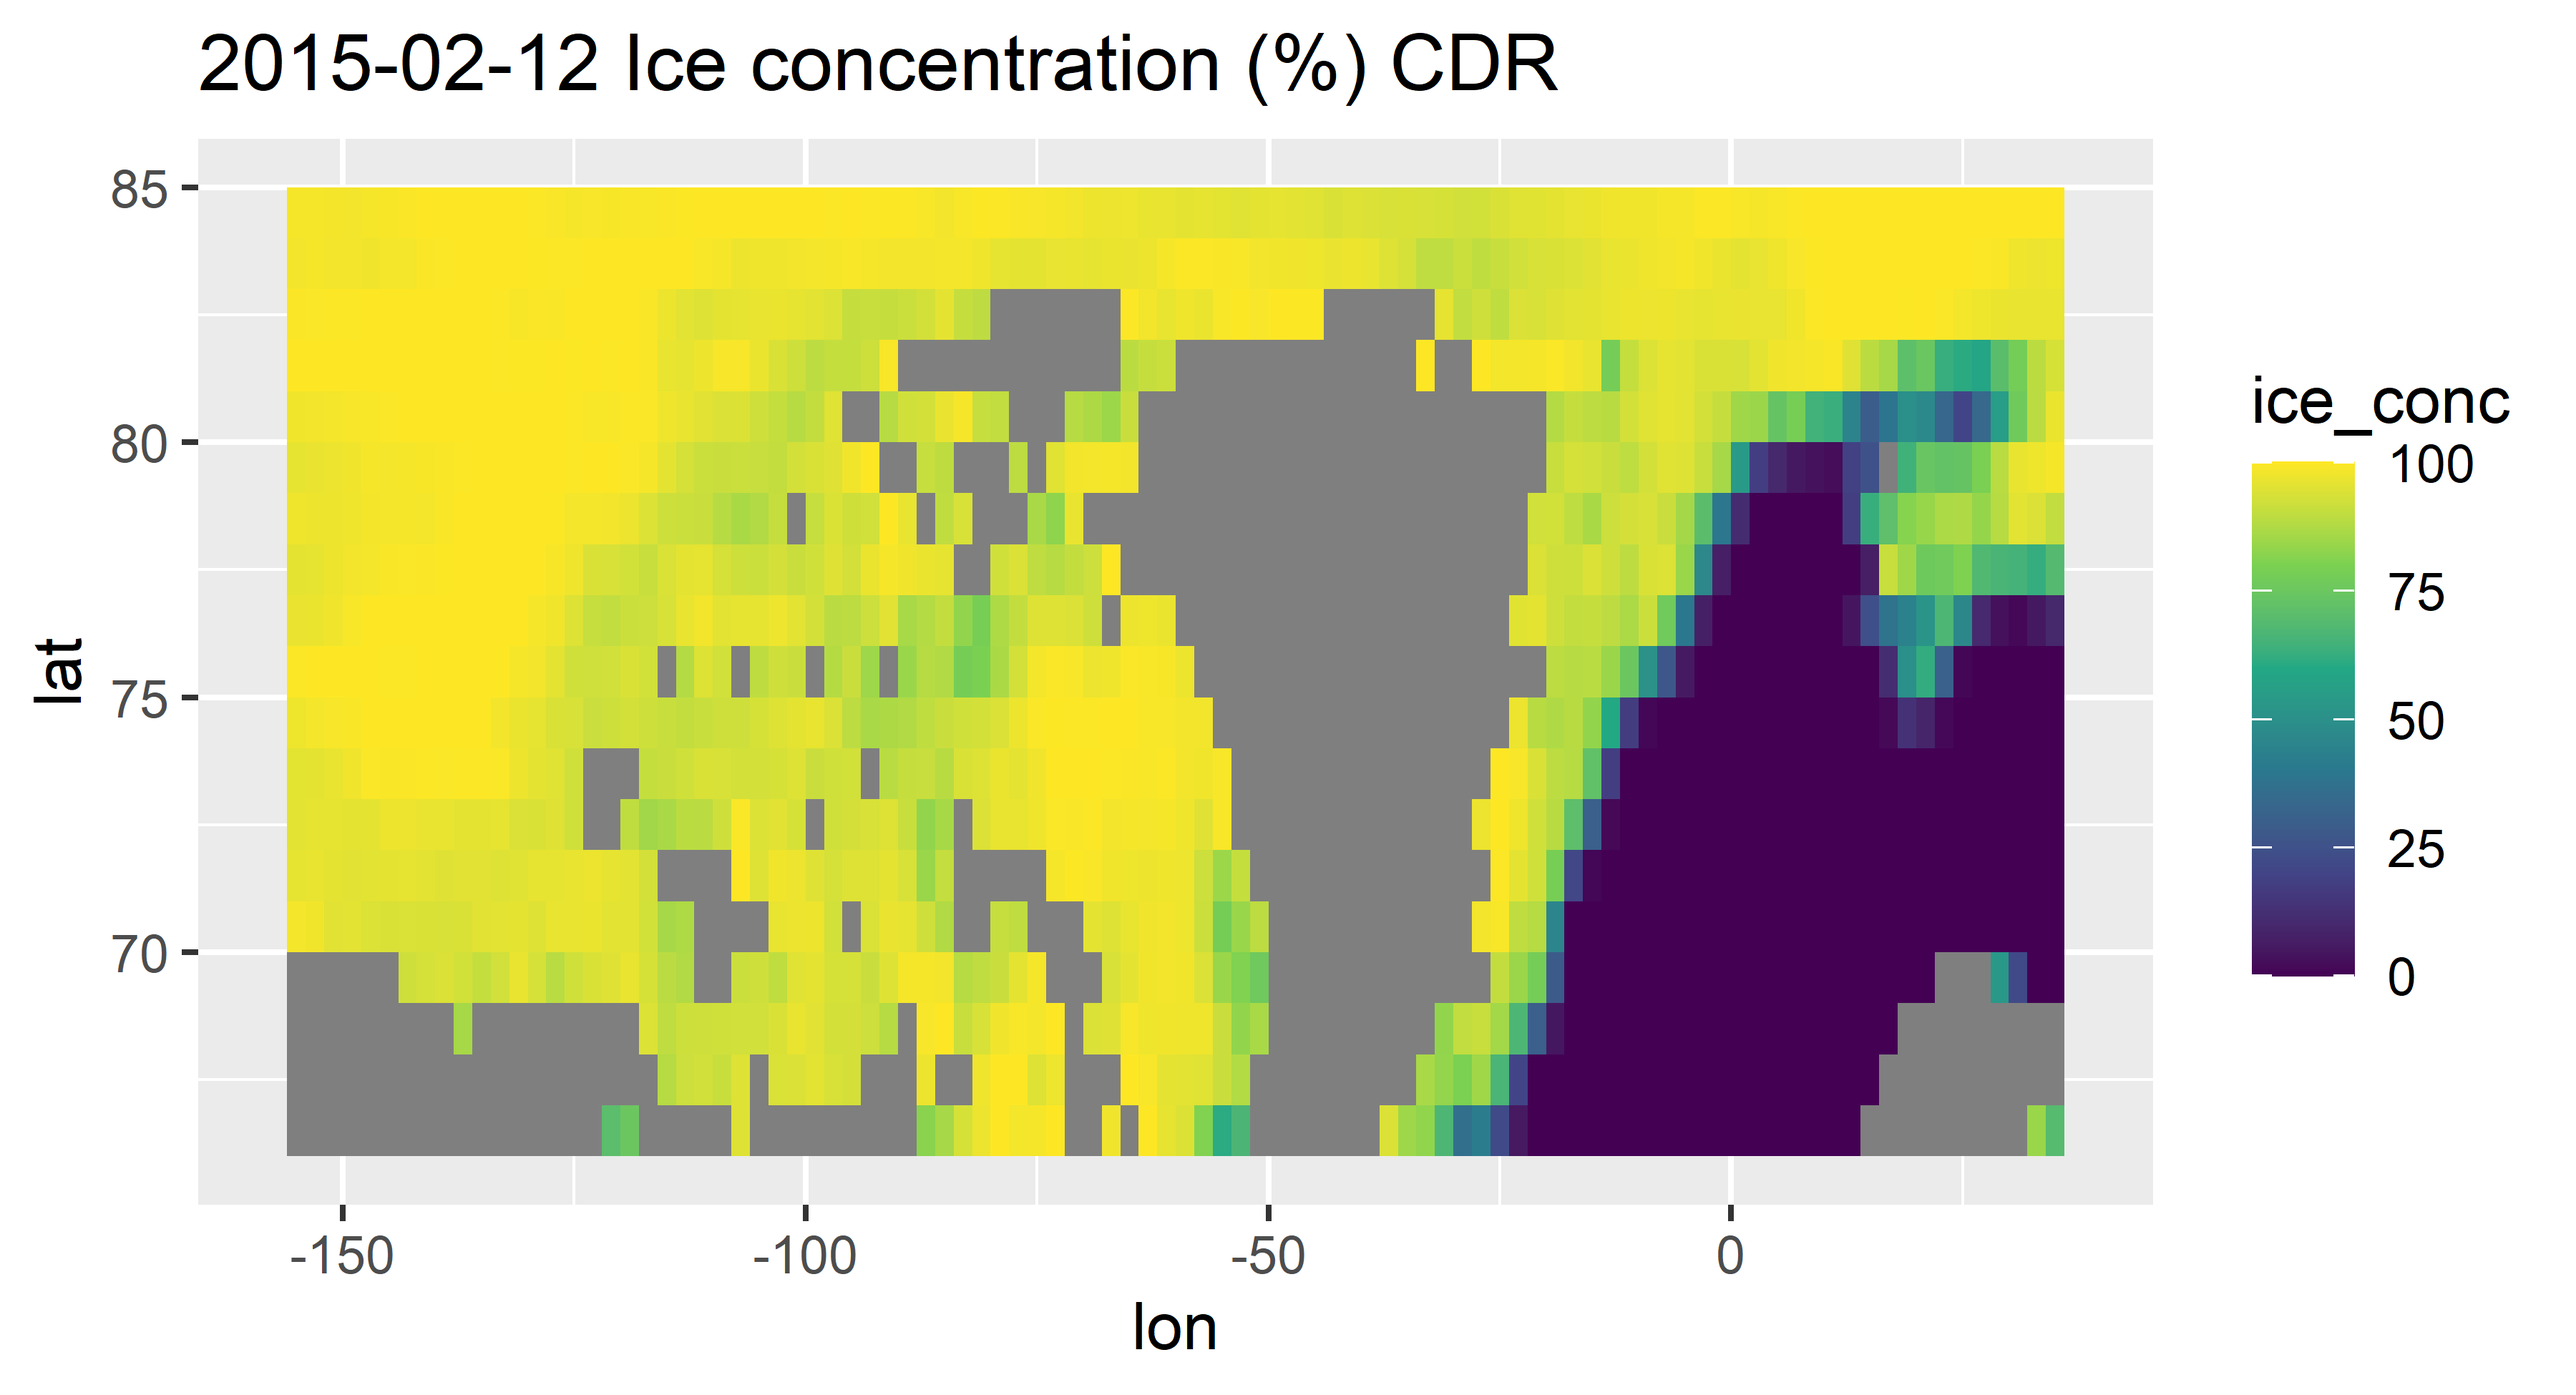
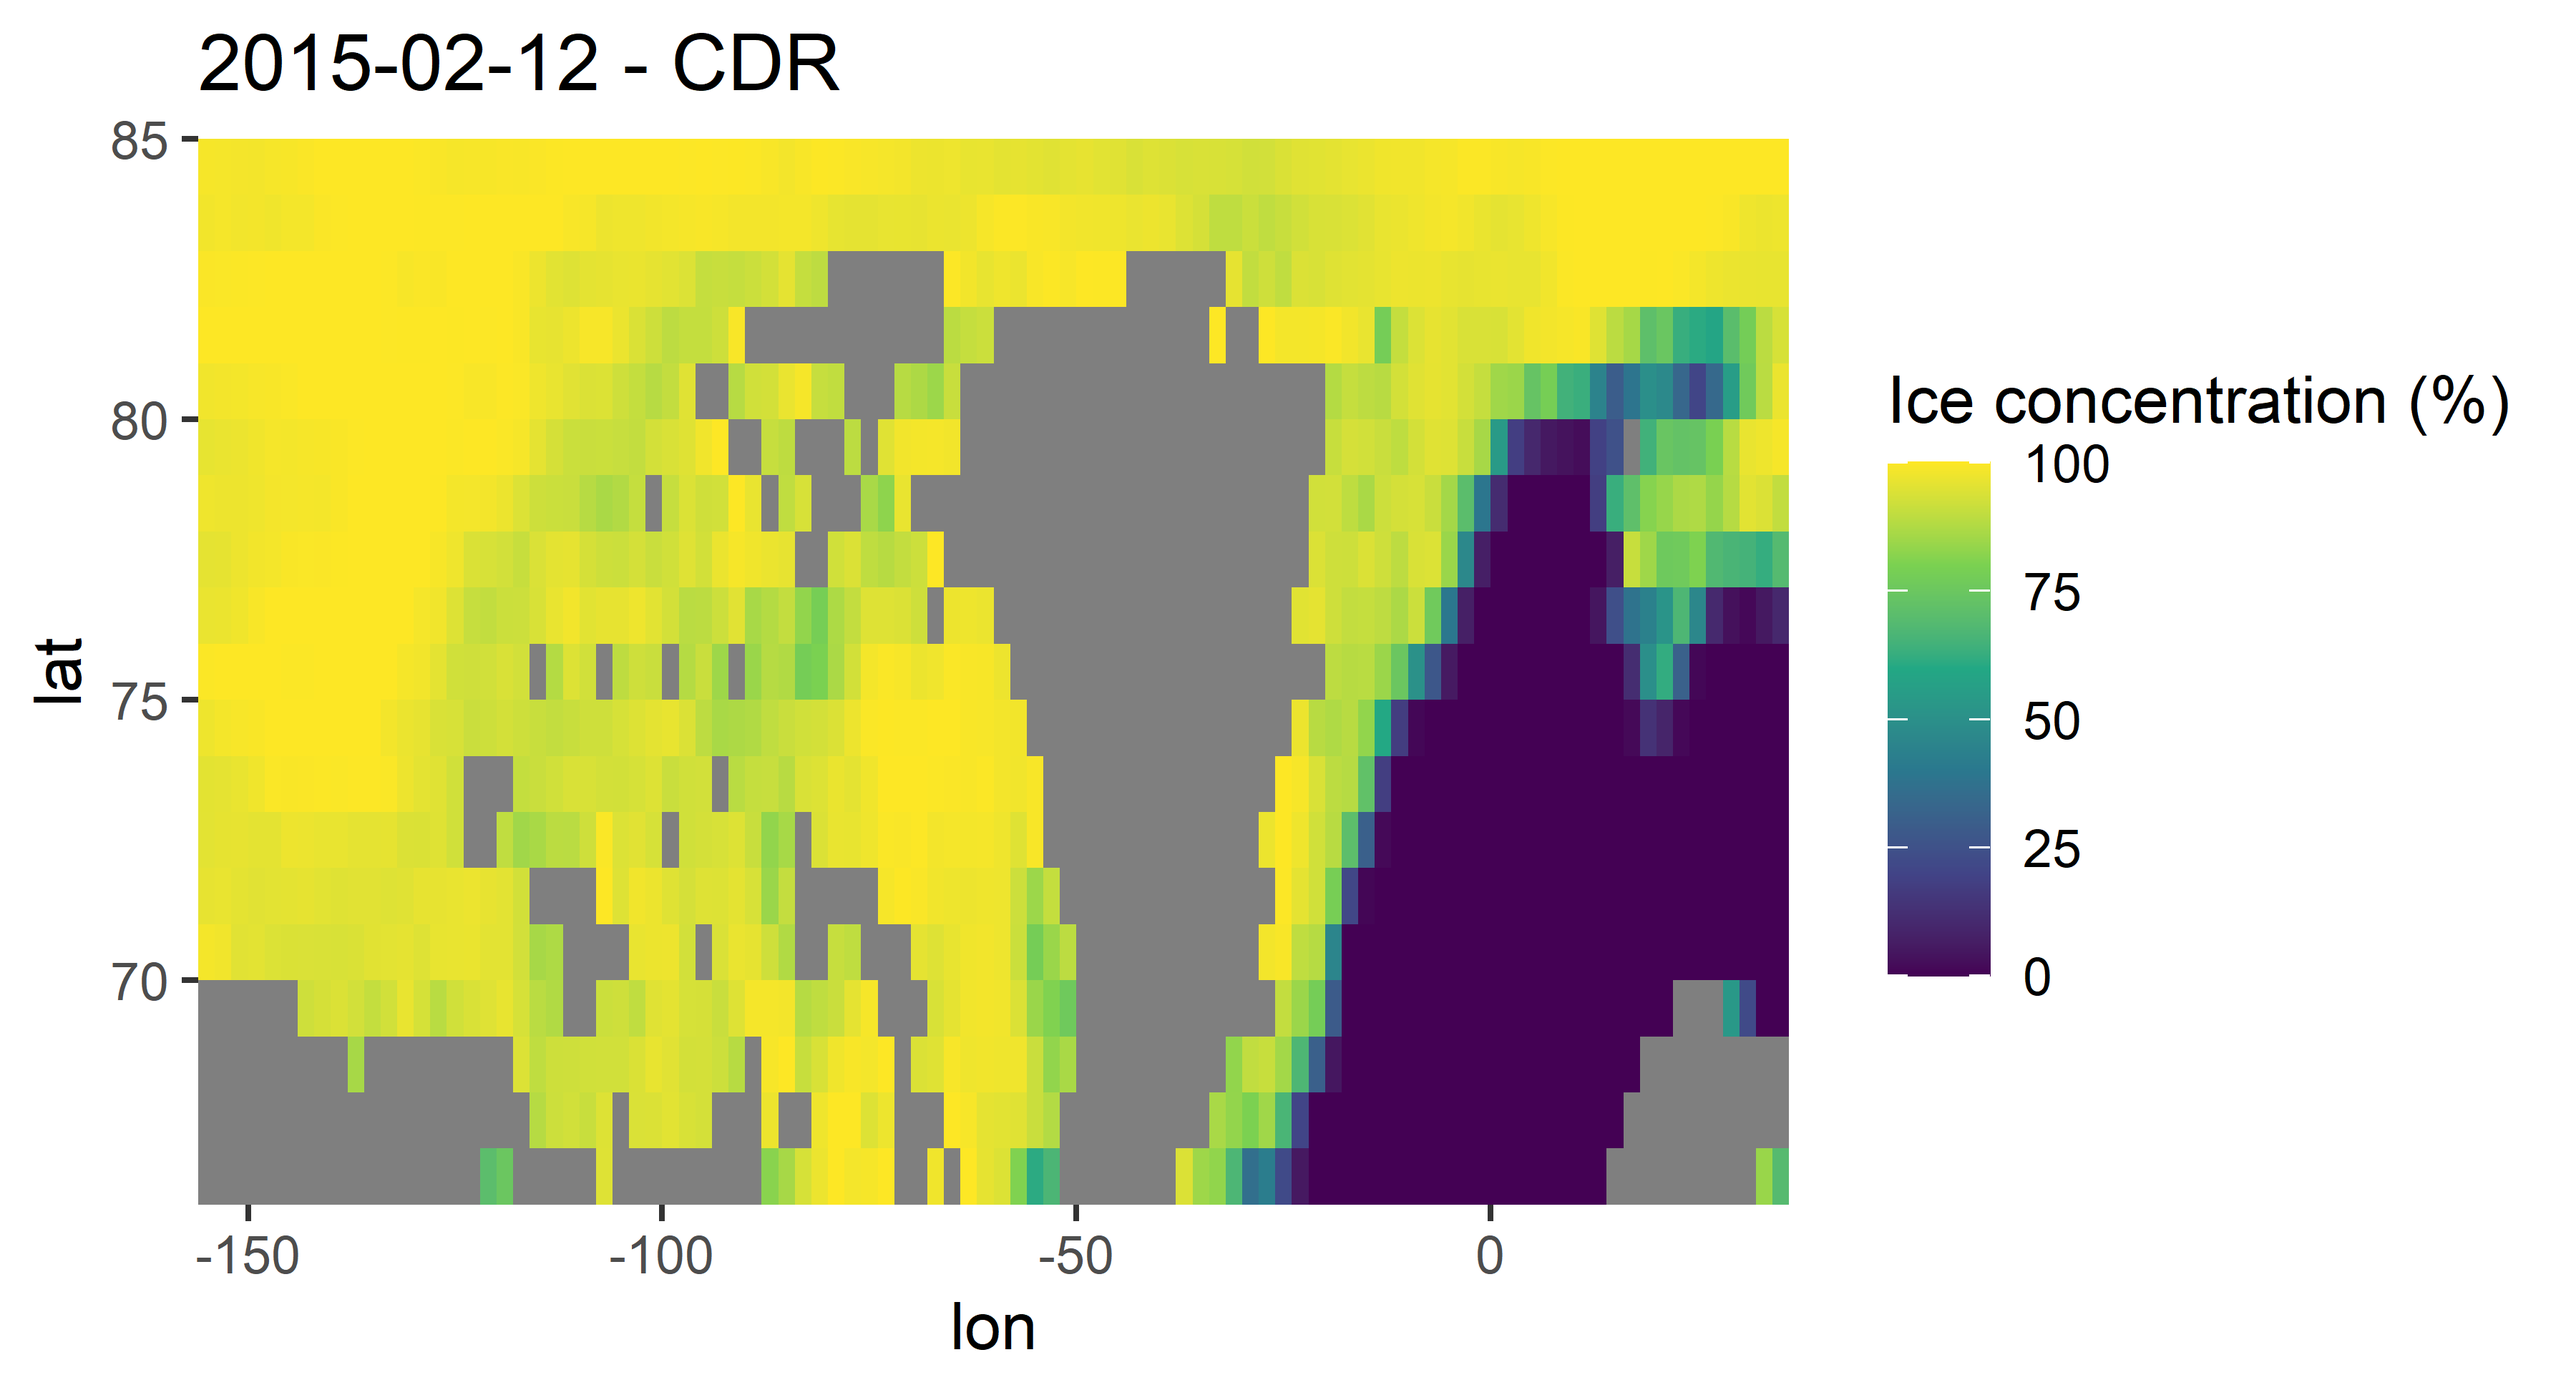
Calculate sea ice metrics (open water duration, sea ice duration, and mean ice concentration) per year and season. Also I included plots to verify whether calculations worked.

diff --git a/PanArctic_DSL_sea_ice.md b/PanArctic_DSL_sea_ice.md
@@ -1,7 +1,7 @@
 PanArctic DSL - Remote sensing
 ================
 [Pierre Priou](mailto:pierre.priou@mi.mun.ca)
-2022/02/01 at 12:17
+2022/02/01 at 14:57
 
 # Package loading
 
@@ -164,8 +164,9 @@ Plot data to see if reprojection worked.
 read_csv("data/remote_sensing/sea_ice/20150212_ice_conc.csv") %>%
   ggplot(aes(x = lon, y = lat, fill = ice_conc)) + 
   geom_tile() + 
-  scale_fill_viridis_c() +
-  ggtitle("2015-02-12 Ice concentration (%) CDR")
+  scale_fill_viridis_c("Ice concentration (%)") +
+  ggtitle("2015-02-12 - CDR") + 
+  coord_cartesian(expand = c(0, 0))
 ```
 
 <img src="PanArctic_DSL_sea_ice_files/figure-gfm/plot-seaice-latlon-cdr-1.png" style="display: block; margin: auto;" />
@@ -174,8 +175,9 @@ read_csv("data/remote_sensing/sea_ice/20150212_ice_conc.csv") %>%
 read_csv("data/remote_sensing/sea_ice/20170212_ice_conc.csv") %>%
   ggplot(aes(x = lon, y = lat, fill = ice_conc)) + 
   geom_tile() + 
-  scale_fill_viridis_c() +
-  ggtitle("2017-02-12 Ice concentration (%) ICDR")
+  scale_fill_viridis_c("Ice concentration (%)") +
+  ggtitle("2017-02-12 - ICDR") + 
+  coord_cartesian(expand = c(0, 0))
 ```
 
 <img src="PanArctic_DSL_sea_ice_files/figure-gfm/plot-seaice-latlon-icdr-1.png" style="display: block; margin: auto;" />
@@ -187,6 +189,9 @@ and mean sea ice concentration for each cell. I calculate open-water
 duration from one sea ice minimum extent to the next. I retrieved the
 dates of the sea ice minimum extent from
 [NSIDC](http://nsidc.org/arcticseaicenews/2021/09/arctic-sea-ice-at-highest-minimum-since-2014/).
+We define a cell being ice-covered when the mean sea ice concentration
+is above 15 % [(as per NSIDC Sea Ice
+Index)](https://nsidc.org/cryosphere/glossary/term/ice-extent).
 
 ``` r
 date_min_seaice <- c(as.POSIXct("2014-09-17", tz = "UTC"), # Define dates of minimum sea ice extent
@@ -195,19 +200,56 @@ date_min_seaice <- c(as.POSIXct("2014-09-17", tz = "UTC"), # Define dates of min
                      as.POSIXct("2017-09-13", tz = "UTC"))
 seaice <- list.files("data/remote_sensing/sea_ice", pattern = "*_ice_conc.csv", full.names = T) %>% # List files in folder
   map_dfr(.f = ~ read_csv(., col_types = list("n", "n", "D", "n", "n", "n", "n"))) %>% # Read sea ice files
-  filter(date >= min(date_min_seaice) & date <= max(date_min_seaice)) %>%
   mutate(date = ymd(date),
          season = case_when(date >= date_min_seaice[1] & date <= date_min_seaice[2] ~ 2015,
                             date >= date_min_seaice[2] & date <= date_min_seaice[3] ~ 2016,
                             date >= date_min_seaice[3] & date <= date_min_seaice[4] ~ 2017),
          year = year(date),
-         month = month(date),
-         yday = yday(date),
-         day = day(date),
-         week = week(date),
          area = factor(case_when(lon > -155 & lon <= -95 & lat > 65 & lat <= 82 ~ "BF_CAA",
                                  lon > -95 & lon <= -50 & lat > 66 & lat <= 82 ~ "BB",
                                  lon >= -25 & lon <= 145 & lat > 77 & lat <= 90 ~ "SV"),
                        levels = c("BF_CAA", "BB", "SV", "Other")))
-save(seaice, file="data/remote_sensing/remote_sensing_seaice.RData") # Save data
+seaice_season <- seaice %>% # Calculate metrics for each season
+  filter(is.na(season) == F) %>% # Remove data outside of seasons (early 2014 and late 2017)
+  mutate(ice_covered_day = if_else(ice_conc > 15, 1, 0)) %>%
+  group_by(season, lat, lon) %>%
+  mutate(ice_breakup = case_when(ice_conc < 15 ~ max(date))) %>% # Define open water as ice_conc < 15 %
+  summarise(total_day = n(),
+            seaice_duration = sum(ice_covered_day),
+            openwater_duration = total_day - seaice_duration,
+            mean_ice_conc = round(mean(ice_conc, na.rm = T), 2))
+seaice_year <- seaice %>% # Calculate metrics for each season
+  filter(year >= 2015) %>% # Remove data from 2014
+  mutate(ice_covered_day = if_else(ice_conc > 15, 1, 0)) %>%
+  group_by(year, lat, lon) %>%
+  mutate(ice_breakup = case_when(ice_conc < 15 ~ max(date))) %>% # Define open water as ice_conc < 15 %
+  summarise(total_day = n(),
+            seaice_duration = sum(ice_covered_day),
+            openwater_duration = total_day - seaice_duration,
+            mean_ice_conc = round(mean(ice_conc, na.rm = T), 2))
+save(seaice, seaice_season, seaice_year, file = "data/remote_sensing/remote_sensing_seaice.RData") # Save data
 ```
+
+Plot data to see if calculations worked.
+
+``` r
+seaice_year %>%
+  ggplot(aes(x = lon, y = lat, fill = openwater_duration)) +
+  geom_tile() + 
+  scale_fill_viridis_c("Open water\nduration (days)", option = "inferno", direction = -1) +
+  facet_wrap(~ year, ncol = 1) + 
+  coord_cartesian(expand = c(0, 0))
+```
+
+<img src="PanArctic_DSL_sea_ice_files/figure-gfm/map-openwater-duration-1.png" style="display: block; margin: auto;" />
+
+``` r
+seaice_year %>%
+  ggplot(aes(x = lon, y = lat, fill = mean_ice_conc)) +
+  geom_tile() + 
+  scale_fill_viridis_c("Mean ice\nconcentration (%)", option = "viridis") +
+  facet_wrap(~ year, ncol = 1)+ 
+  coord_cartesian(expand = c(0, 0))
+```
+
+<img src="PanArctic_DSL_sea_ice_files/figure-gfm/map-mean-ice-concentration-1.png" style="display: block; margin: auto;" />
